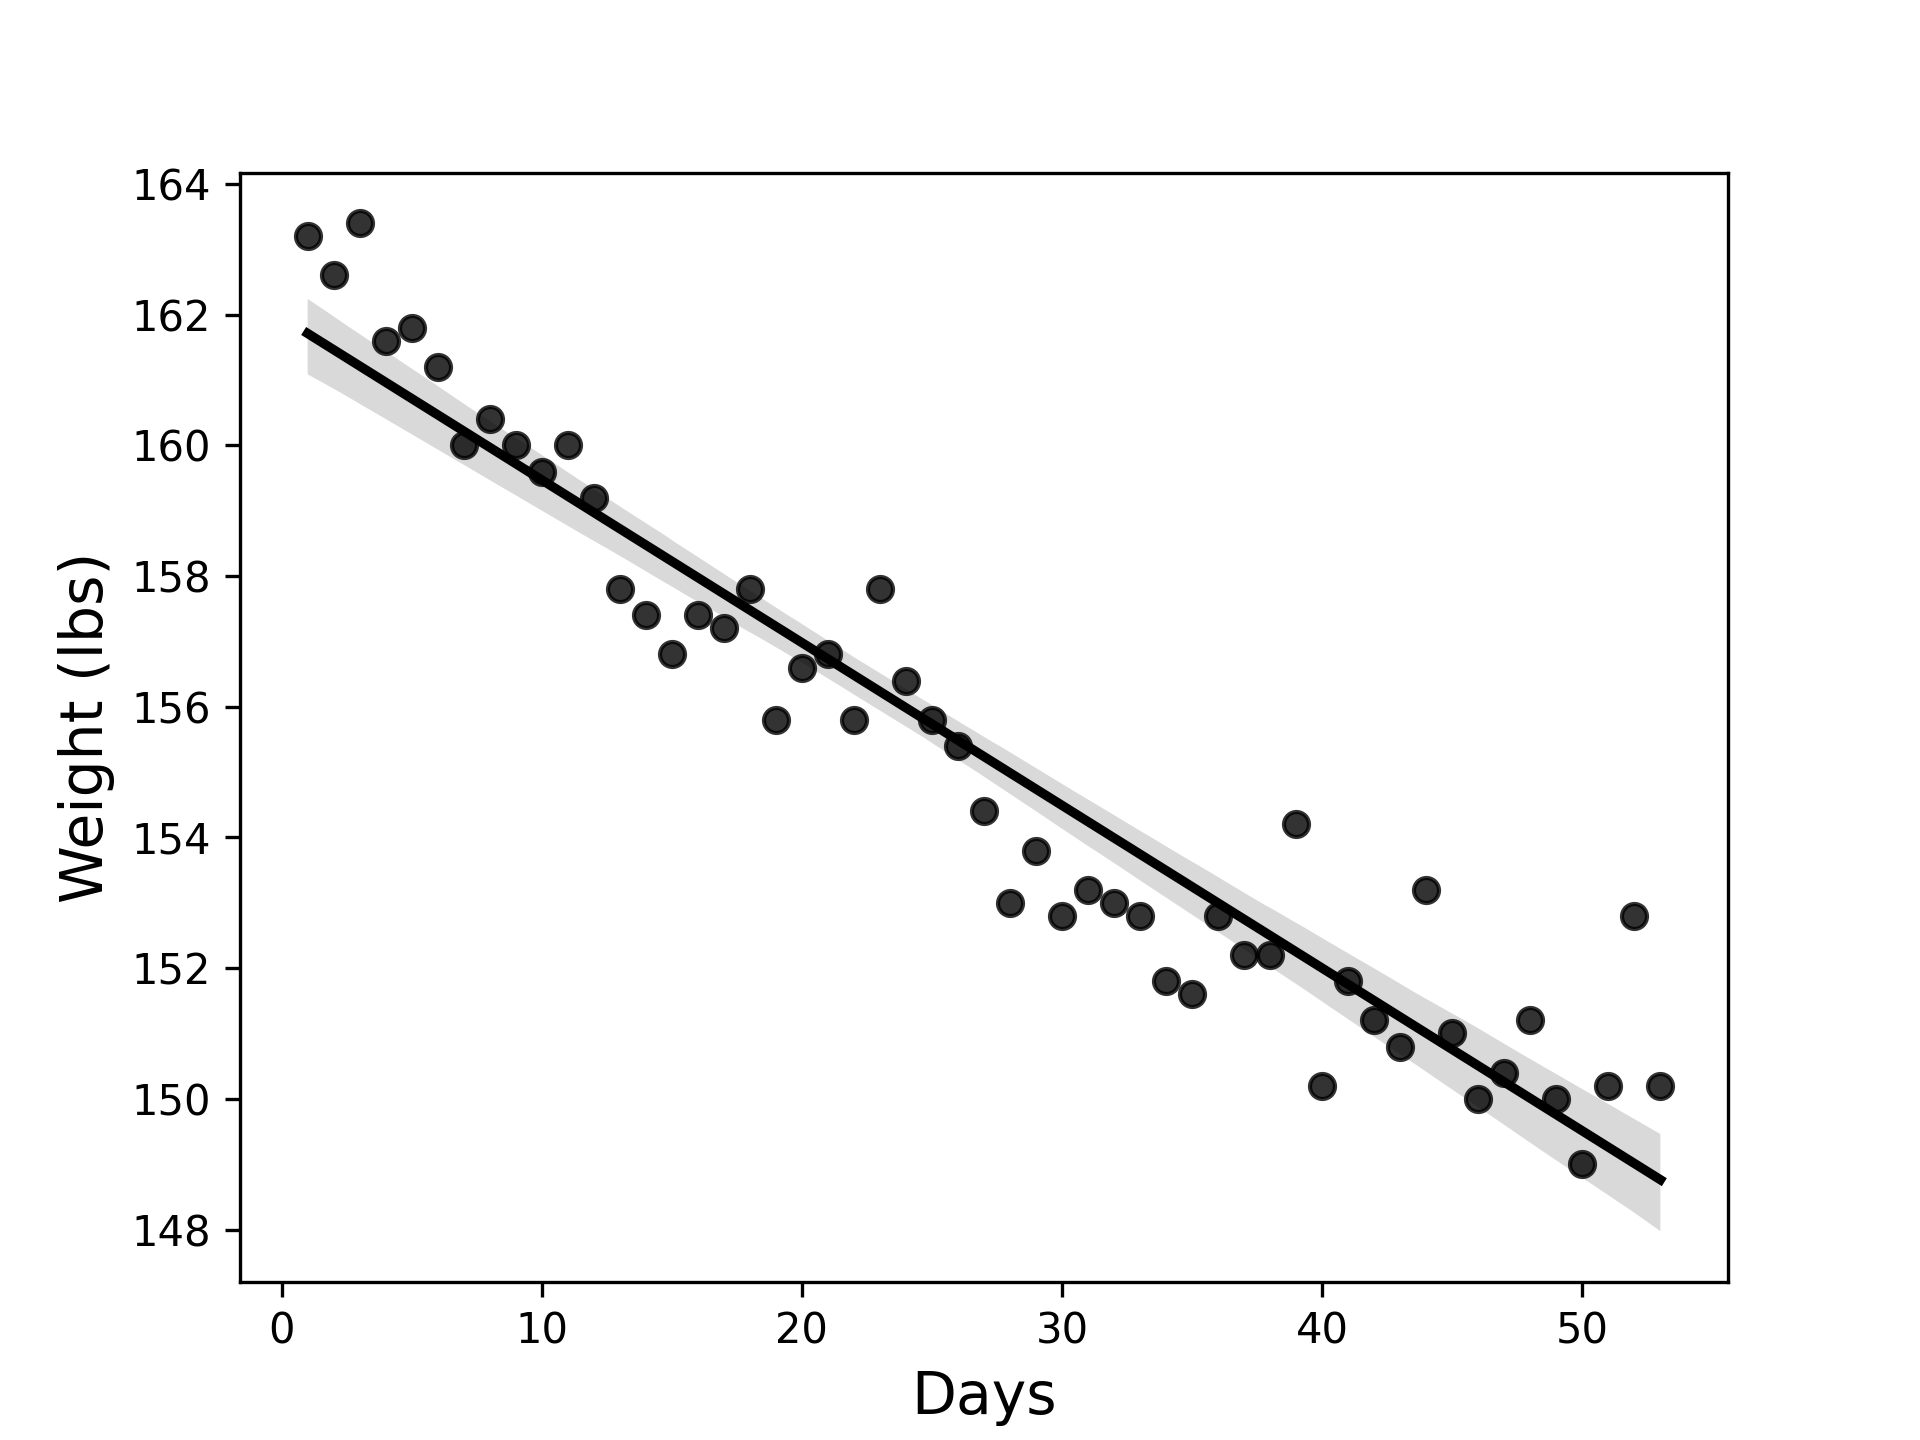
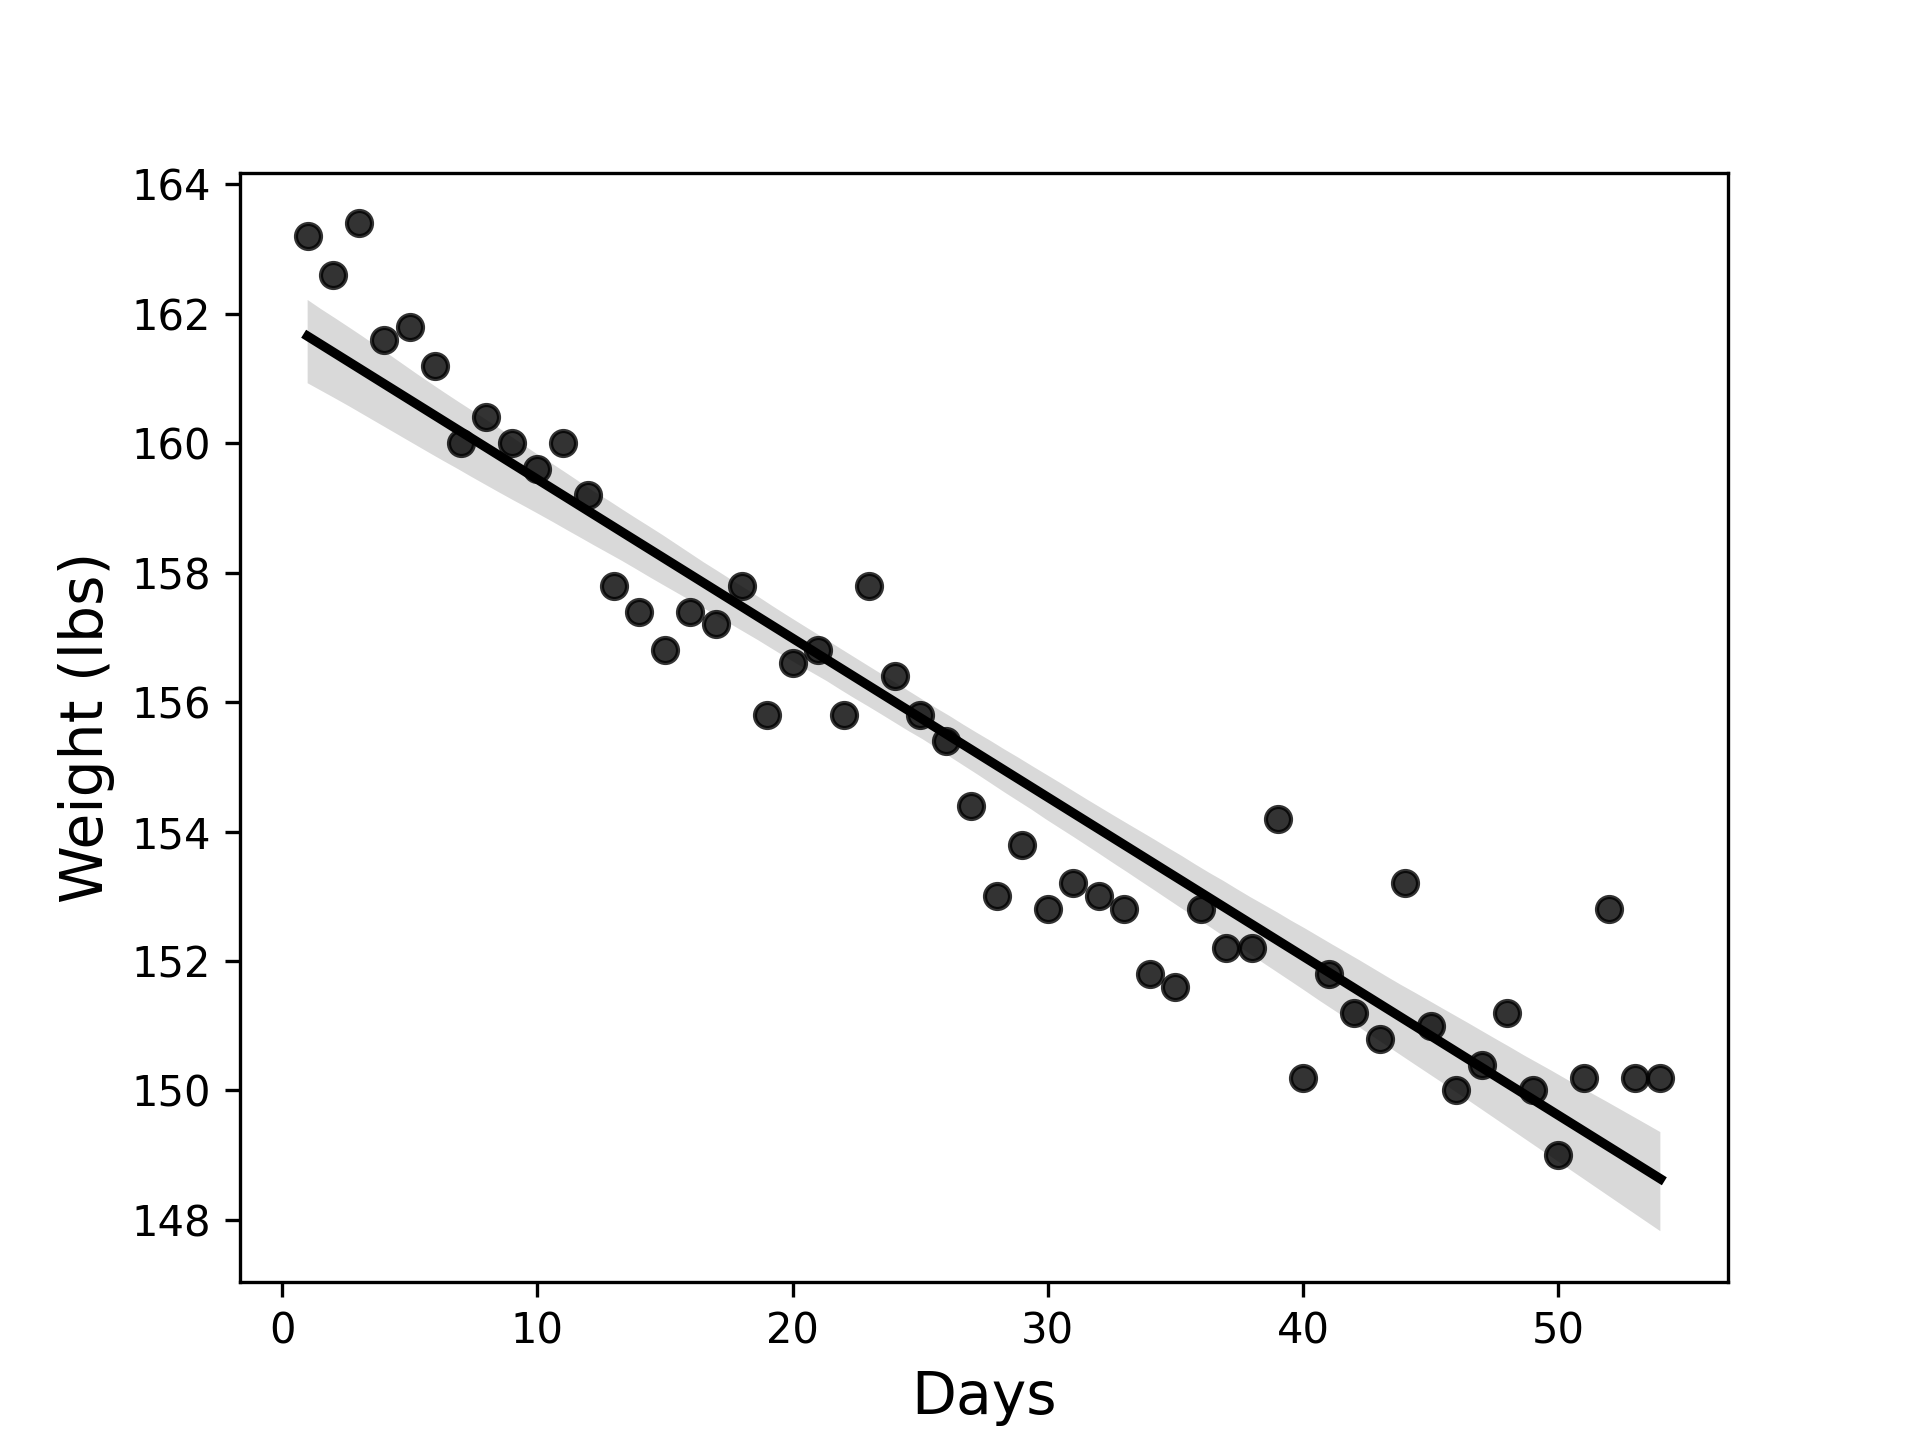
Updated weight.py and weight.png

diff --git a/Weight.py b/Weight.py
@@ -7,11 +7,11 @@ import seaborn as sns
 # Creates an array of elapsed days and assigns it to days_elapsed
 days_elapsed = np.array([1, 2, 3 ,4, 5, 6, 7, 8, 9, 10,11,12,13, 14,15,16,17,18,
                          19, 20,21,22,23,24,25,26,27,28,29,30,31,32,33,34,35,36,37,38,39,
-                         40,41,42,43,44,45,46,47,48,49,50,51,52,53]).reshape(-1,1)
+                         40,41,42,43,44,45,46,47,48,49,50,51,52,53,54]).reshape(-1,1)
 weight = np.array([163.2, 162.6, 163.4, 161.6, 161.8, 161.2, 160.0, 160.4, 160.0, 159.6,160.0,159.2,157.8, 157.4,156.8,157.4,
                    157.2, 157.8,155.8, 156.6,156.8,155.8,157.8,156.4,155.8,155.4,154.4,153.0,153.8,152.8,153.2,
                    153.0,152.8,151.8,151.6,152.8,152.2,152.2,154.2,150.2, 151.8,151.2,150.8,153.2,
-                   151.0,150.0,150.4,151.2,150.0,149.0,150.2,152.8,150.2])
+                   151.0,150.0,150.4,151.2,150.0,149.0,150.2,152.8,150.2,150.2])
 
 # Instantiates a LinearRegression model and fits it to the above arrays
 model = sklearn.linear_model.LinearRegression().fit(days_elapsed,weight)
